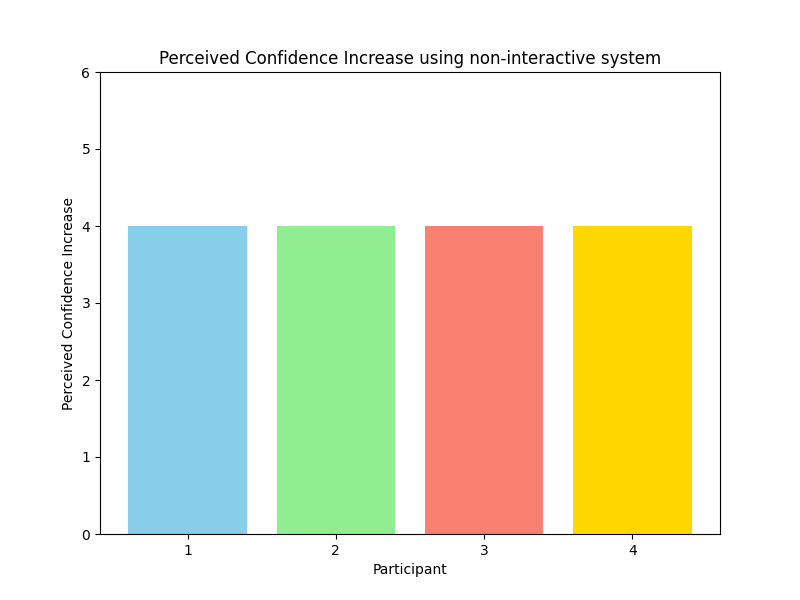
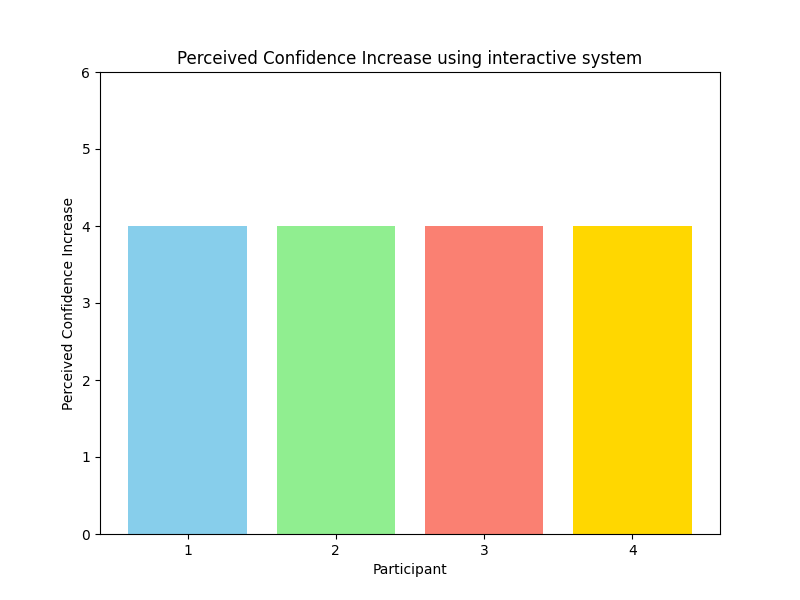
Refactor create_bar_chart function to include x-axis label

Changed region(s): [[0.1875, 0.09, 0.8438, 0.12]]

diff --git a/My_Work/statistical_tests/barcharts.py b/My_Work/statistical_tests/barcharts.py
@@ -64,28 +64,28 @@ def chatbot_data():
     output_file_path = os.path.join(output_dir, 'perceived_task_difficulty.png')
 
     # Generate bar chart for existing data
-    create_bar_chart(participants, perceived_difficulty, colors, title, output_file_path, 6, 'Perceived Task Difficulty')
+    create_bar_chart(participants, perceived_difficulty, colors, title, output_file_path, 6, 'Perceived Task Difficulty', 'Participant')
 
     # Data for new questions
     q2_likert = [5, 1, 5, 4]
-    q2_title = 'Perceived Satisfaction using non-interactive system'
+    q2_title = 'Perceived Satisfaction using interactive system'
     q2_output_file_path = os.path.join(output_dir, 'perceived_satisfaction.png')
-    create_bar_chart(participants, q2_likert, colors, q2_title, q2_output_file_path, 6, 'Perceived Satisfaction')
+    create_bar_chart(participants, q2_likert, colors, q2_title, q2_output_file_path, 6, 'Perceived Satisfaction', 'Participant')
 
     q3_likert = [5, 5, 4, 4]
-    q3_title = 'Perceived Learning Effectiveness using non-interactive system'
+    q3_title = 'Perceived Learning Effectiveness using interactive system'
     q3_output_file_path = os.path.join(output_dir, 'perceived_learning.png')
-    create_bar_chart(participants, q3_likert, colors, q3_title, q3_output_file_path, 6, 'Perceived Learning Effectiveness')
+    create_bar_chart(participants, q3_likert, colors, q3_title, q3_output_file_path, 6, 'Perceived Learning Effectiveness', 'Participant')
 
     q4_likert = [4, 4, 4, 4]
-    q4_title = 'Perceived Confidence Increase using non-interactive system'
+    q4_title = 'Perceived Confidence Increase using interactive system'
     q4_output_file_path = os.path.join(output_dir, 'perceived_confidence.png')
-    create_bar_chart(participants, q4_likert, colors, q4_title, q4_output_file_path, 6, 'Perceived Confidence Increase')
+    create_bar_chart(participants, q4_likert, colors, q4_title, q4_output_file_path, 6, 'Perceived Confidence Increase', 'Participant')
 
     q5_likert = [1, 2, 3, 3]
     q5_title = 'Perceived Task Challenge in isolation'
     q5_output_file_path = os.path.join(output_dir, 'perceived_challenge.png')
-    create_bar_chart(participants, q5_likert, colors, q5_title, q5_output_file_path, 3.5, 'Perceived Task Challenge')
+    create_bar_chart(participants, q5_likert, colors, q5_title, q5_output_file_path, 3.5, 'Perceived Task Challenge', 'Participant')
 
 def comparison_data():
     # Data for existing questions
@@ -133,7 +133,7 @@ def comparison_data():
     create_bar_chart(dependent_options, dependent_responses, dependent_colors, dependent_title, dependent_output_file_path, 4, 'Number of Participants', 'Response')
 
 def main():
-    comparison_data()
+    chatbot_data()
 
 if __name__ == '__main__':
     main()
